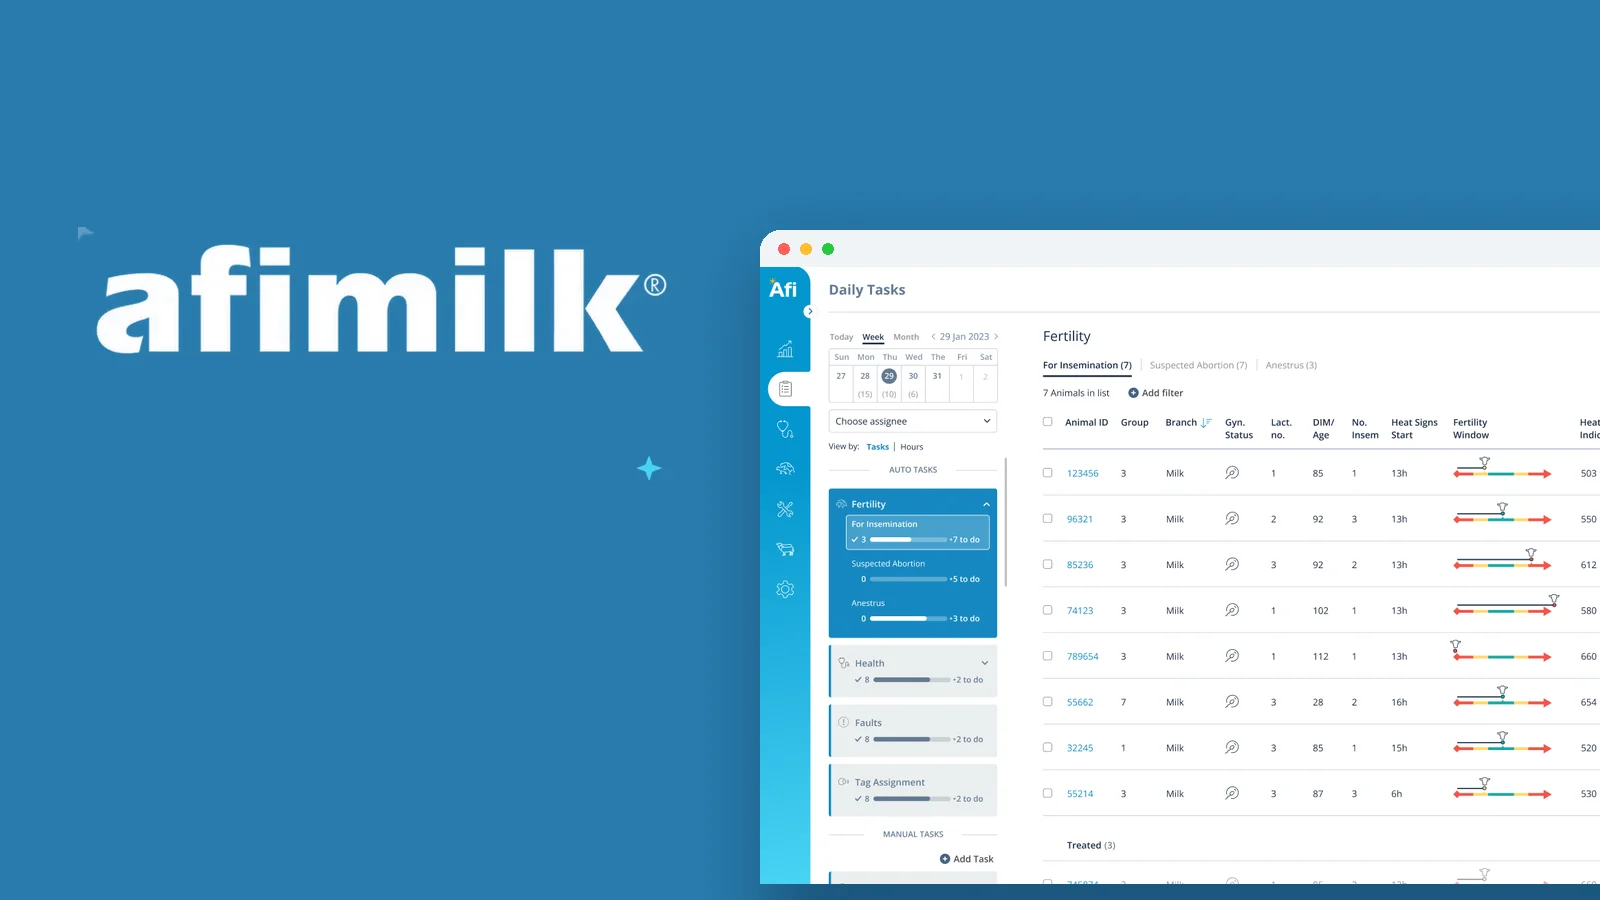
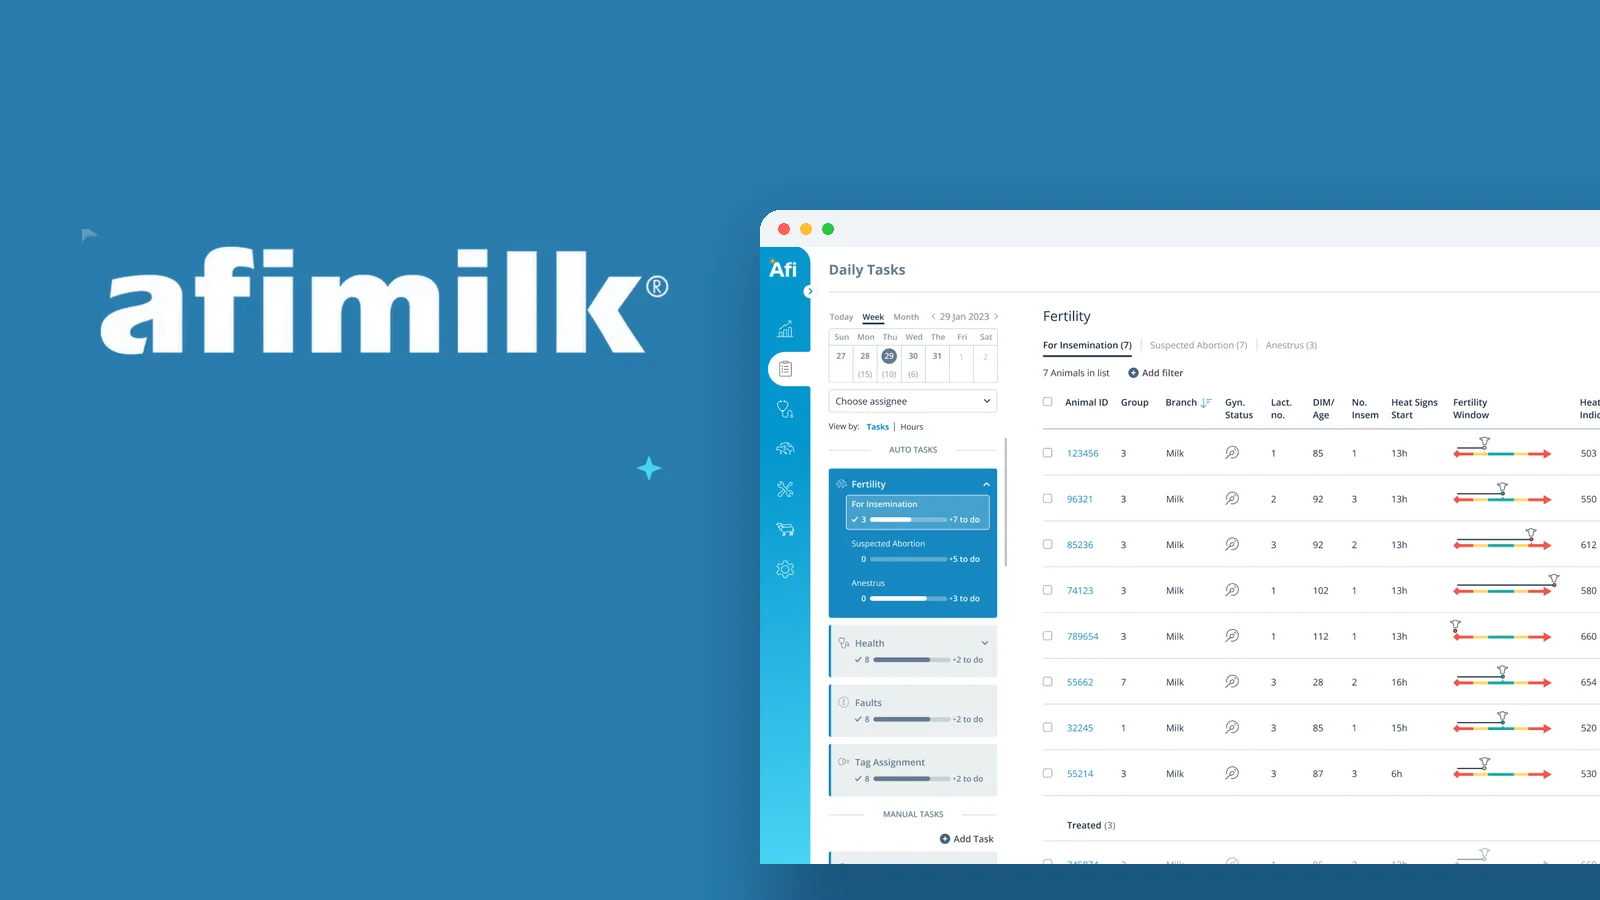
Covers: every screen starts at the same point (760, 210)
Claude-Session: https://claude.ai/code/session_01U3LnkADmWK6BWBvsiVpdjW

diff --git a/scripts/afimilk-covers.py b/scripts/afimilk-covers.py
@@ -81,7 +81,7 @@ def drop(cv, layer, x, y, blur=34, strength=120):
 
 # ---- Farmers: one app screen, running off the right and bottom like the windows ----
 cv = base()
-cv = drop(cv, phone(ROOT / 'scripts' / 'assets' / 'farmers-tasks.png', 860), 1230, 150)
+cv = drop(cv, phone(ROOT / 'scripts' / 'assets' / 'farmers-tasks.png', 860), 760, 210)
 cv.save(IMG / 'farmers-1600.webp', quality=86)
 cv.resize((800, 450), Image.LANCZOS).save(IMG / 'farmers-800.webp', quality=86)
 print('wrote farmers')
@@ -99,7 +99,7 @@ for i, c in enumerate([(255, 95, 87), (254, 188, 46), (40, 200, 64)]):
     d.ellipse((18 + i * 22, 13, 29 + i * 22, 24), fill=c)
 mask = Image.new('L', win.size, 0)
 ImageDraw.Draw(mask).rounded_rectangle((0, 0, win.width, win.height + 60), 20, fill=255)
-x, y = 760, 230
+x, y = 760, 210
 sh = Image.new('L', (W, H), 0)
 ImageDraw.Draw(sh).rounded_rectangle((x + 6, y + 26, x + ww + 40, y + win.height + 40), 24, fill=130)
 sh = sh.filter(ImageFilter.GaussianBlur(36))

diff --git a/scripts/client-covers.py b/scripts/client-covers.py
@@ -50,7 +50,7 @@ def put_logo(cv, path, width, x, cy):
 def build(bg, shot_path, logo_name, logo_width, logo_x, logo_cy, shadow, out):
     cv = Image.new('RGB', (W, H), bg)
     win, mask = window(Image.open(shot_path).convert('RGB'), 1120)
-    cv = place(cv, win, mask, 660, 210, shadow)
+    cv = place(cv, win, mask, 760, 210, shadow)
     put_logo(cv, LOGO / logo_name, logo_width, logo_x, logo_cy)
     cv.save(IMG / f'{out}-1600.webp', quality=86)
     cv.resize((800, 450), Image.LANCZOS).save(IMG / f'{out}-800.webp', quality=86)
